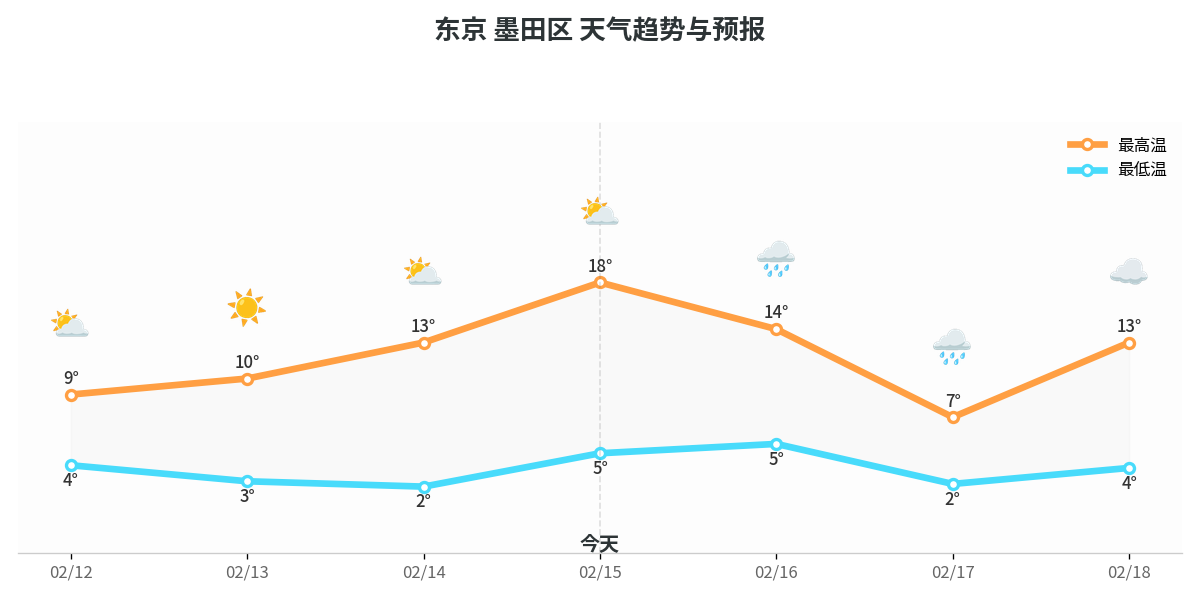
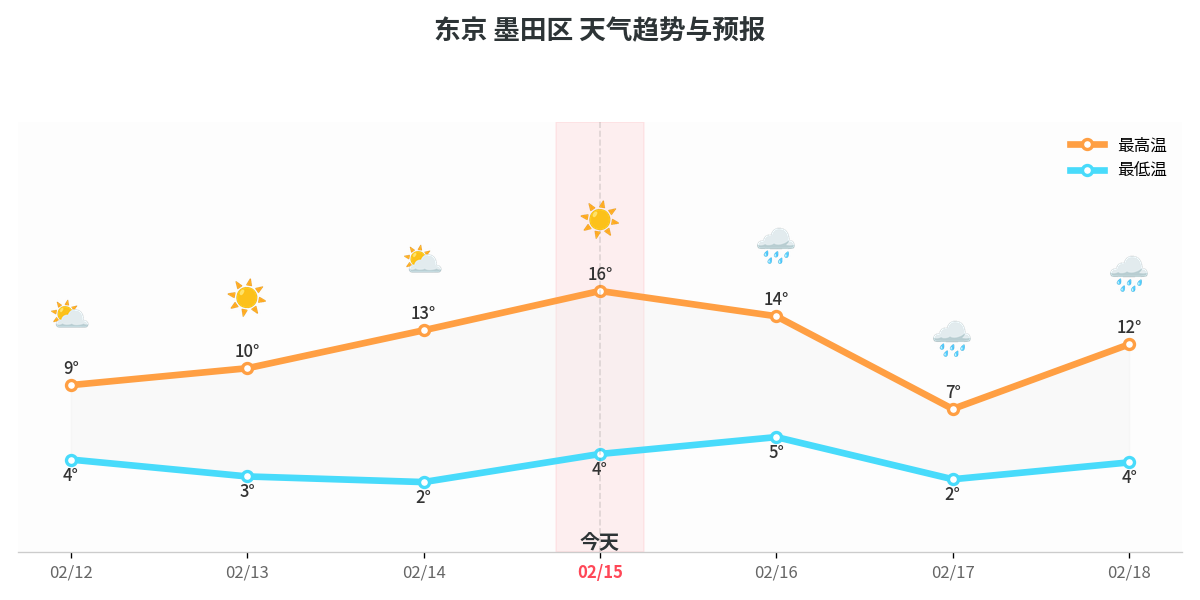
Fix matplotlib timedelta bug and finalize holiday integration

diff --git a/weather_chart.py b/weather_chart.py
@@ -7,7 +7,7 @@ import sys
 import os
 import json
 from PIL import Image, ImageDraw, ImageFont
-import holidays # 引入假期库
+import holidays
 
 # 1. 加载配置与国际化
 CONFIG_PATH = os.path.join(os.path.dirname(__file__), "config.json")
@@ -84,10 +84,11 @@ def create_chart(weather_file, output_file):
             break
 
     # 绘制假期标注
+    from datetime import timedelta
     for d in dates:
         if d.date() in geo_holidays:
             # 在底部日期上方一点，加一个淡红色的竖条
-            ax.axvspan(d - mdates.DateOffset(hours=6), d + mdates.DateOffset(hours=6), color='#ff4757', alpha=0.08)
+            ax.axvspan(d - timedelta(hours=6), d + timedelta(hours=6), color='#ff4757', alpha=0.08)
 
     ax.fill_between(dates, highs, lows, color='#f0f0f0', alpha=0.3)
     
@@ -100,12 +101,10 @@ def create_chart(weather_file, output_file):
     ax.xaxis.set_major_formatter(mdates.DateFormatter('%m/%d'))
     
     # 动态着色：如果是假期，日期文字变红
-    xticks = ax.get_xticks()
     plt.xticks(dates, color='#666666', fontsize=10)
     for label in ax.get_xticklabels():
-        # 这里需要从 label text 找回日期
         try:
-            cur_date_str = label.get_text() # 格式 MM/DD
+            cur_date_str = label.get_text()
             for d_orig in dates:
                 if d_orig.strftime('%m/%d') == cur_date_str:
                     if d_orig.date() in geo_holidays:

diff --git a/main.py b/main.py
@@ -48,8 +48,6 @@ def main():
     weather_data = get_weather()
     if not weather_data: return
 
-    # 初始化假期检查
-    # 如果用户的语言是 zh 且国家是 JP，我们可以在假期名后面稍微标注一下
     geo_holidays = holidays.CountryHoliday(COUNTRY)
 
     times = weather_data['time']
